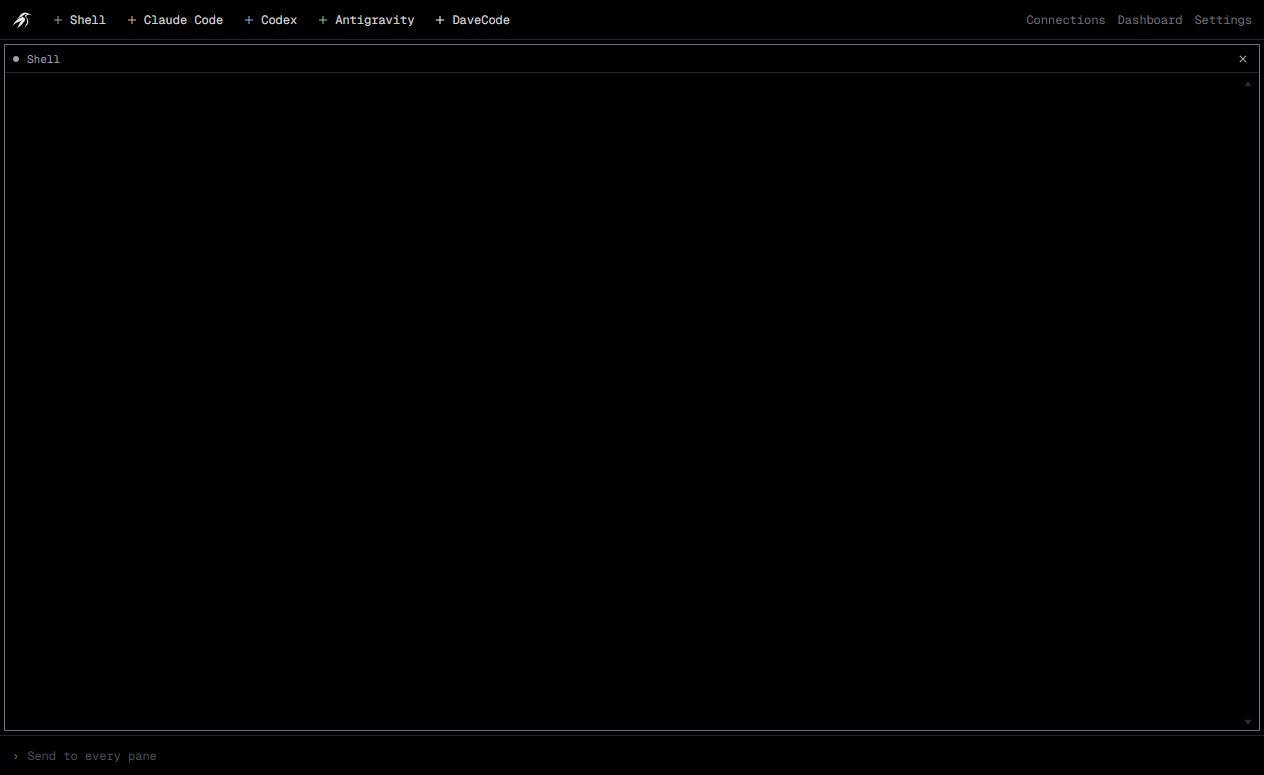
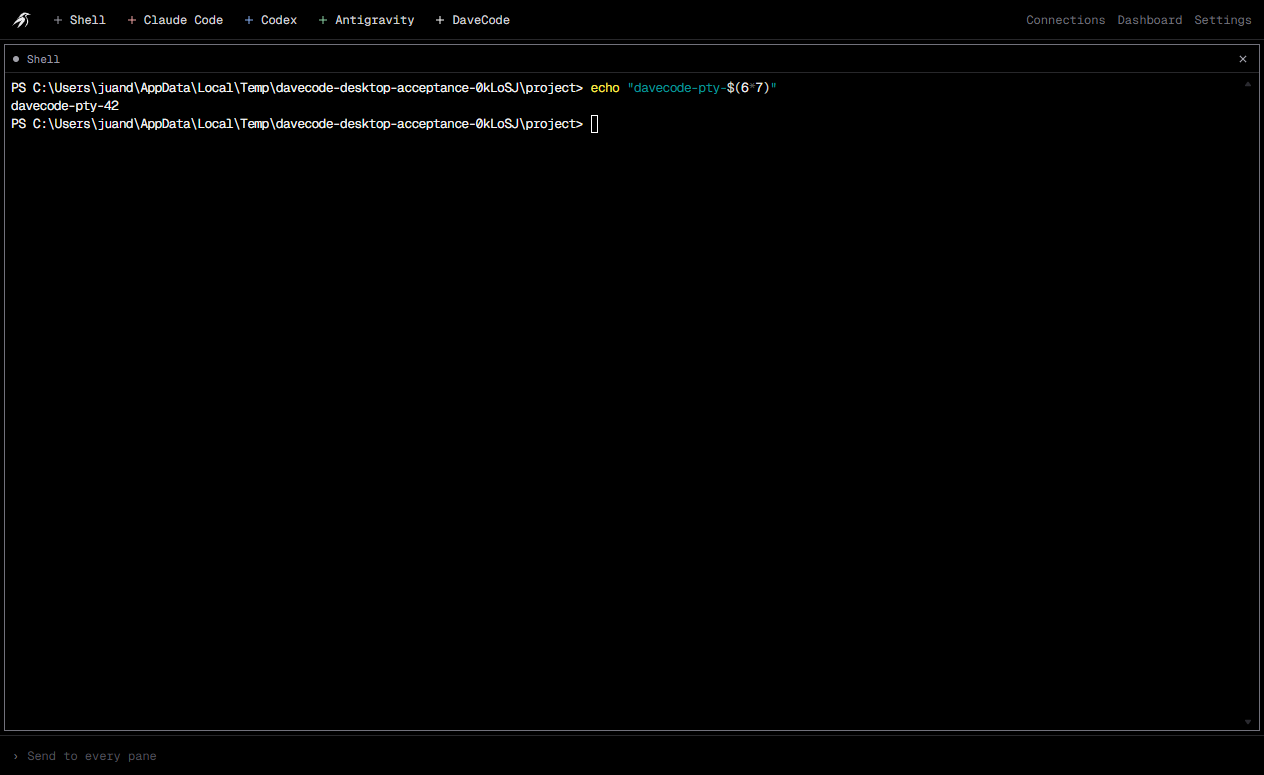
test(desktop): require a real command round trip in the smoke test
A pane reporting live proved only that the PTY opened. The acceptance run now
types a command and waits for its computed output on screen.

Changed region(s): [[0.0, 0.0929, 0.6171, 0.1858]]

diff --git a/packages/desktop/src/smoke.ts b/packages/desktop/src/smoke.ts
@@ -2,6 +2,8 @@ import { mkdir, writeFile } from 'node:fs/promises';
 import { join } from 'node:path';
 import type { BrowserWindow } from 'electron';
 
+const sleep = (ms: number) => new Promise((resolve) => setTimeout(resolve, ms));
+
 /** Opt-in acceptance harness for our own packaged window, always with a disposable home. */
 export async function verifyWindow(
   window: BrowserWindow,
@@ -24,7 +26,7 @@ export async function verifyWindow(
       return Boolean(document.querySelector('[data-pane-live="true"] .xterm-rows'));
     })()`);
     if (rendered) break;
-    await new Promise((resolve) => setTimeout(resolve, 200));
+    await sleep(200);
   }
   if (!rendered) {
     const page = await window.webContents.executeJavaScript(
@@ -32,6 +34,30 @@ export async function verifyWindow(
     );
     console.error('Desktop page at failure:', page);
     throw new Error('terminal_not_rendered');
+  }
+  // A live pane is not proof: type into the shell and require the command's output back.
+  const screenText = () =>
+    window.webContents.executeJavaScript(
+      "document.querySelector('.xterm-rows')?.textContent ?? ''",
+    ) as Promise<string>;
+  const promptDeadline = Date.now() + 25_000;
+  while (Date.now() < promptDeadline && !(await screenText()).trim()) await sleep(200);
+  if (!(await screenText()).trim()) throw new Error('terminal_no_output');
+  await window.webContents.executeJavaScript(
+    "document.querySelector('.xterm-helper-textarea')?.focus()",
+  );
+  const command =
+    process.platform === 'win32' ? 'echo "davecode-pty-$(6*7)"' : 'echo davecode-pty-$((6*7))';
+  await window.webContents.insertText(command);
+  window.webContents.sendInputEvent({ type: 'keyDown', keyCode: 'Return' });
+  window.webContents.sendInputEvent({ type: 'char', keyCode: 'Return' });
+  window.webContents.sendInputEvent({ type: 'keyUp', keyCode: 'Return' });
+  const echoDeadline = Date.now() + 15_000;
+  while (Date.now() < echoDeadline && !(await screenText()).includes('davecode-pty-42'))
+    await sleep(200);
+  if (!(await screenText()).includes('davecode-pty-42')) {
+    console.error('Terminal screen:', (await screenText()).slice(0, 400));
+    throw new Error('terminal_input_failed');
   }
   await mkdir(output, { recursive: true });
   // The screenshot is evidence, not the check: headless Linux CI has no GPU to capture with.
